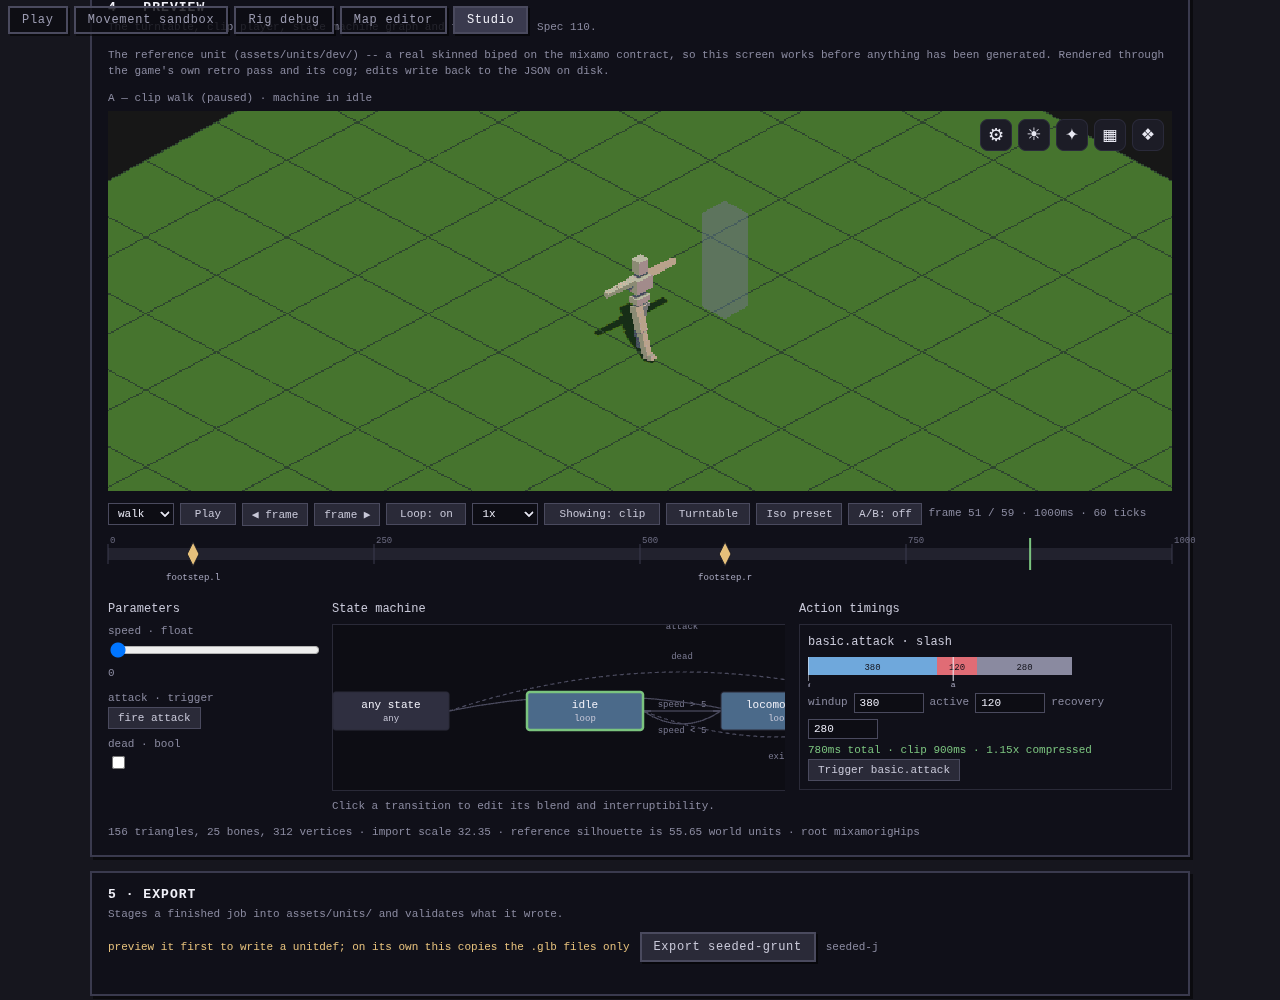
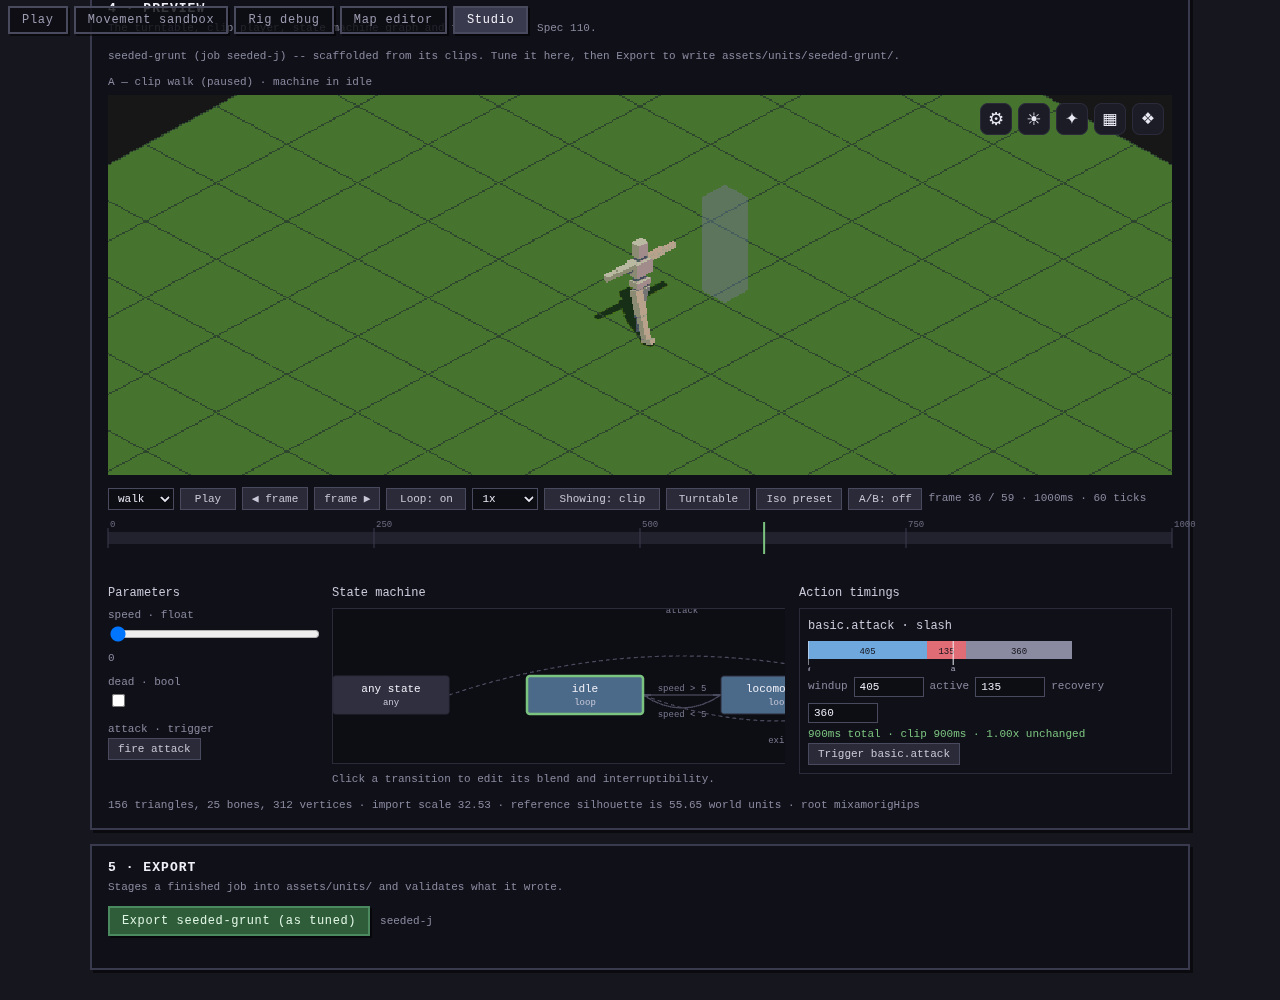
Stop the preview harness from testing a panel it had already torn down
Three faults, found by adding one assertion to this script and watching it fail
for a reason that had nothing to do with what it was asserting.

The seeded job pointed at `clips/attack.glb`, which was renamed to `slash.glb`
when the reference unit's swing was renamed to what the API calls it. So the
job named a file that was not there, `previewJob` threw on the 404, and the
preview never mounted at all -- while every assertion below it went on passing
against the *reference unit*, which this tab already has on screen and which is
the same mannequin the seeded job points at. "156 triangles, 25 bones" was true
of the panel that was about to be replaced, so waiting for it resolved before
the click had done anything. It now waits for the job's own caption first.

Killing `npx` left the `tsx` it spawned holding the port. The next run's
`waitForServer` was then answered by the previous run's server, holding the
previous run's data directory -- so a change to the seeded job did nothing and
the failure read as a code bug with an entirely invented cause. Each child now
leads its own process group and the group is what gets signalled.

And the facing check is clicked here (spec 116), because the measuring is only
half of it: the route has to find the artifacts, the client has to carry the
admin token, and the card has to repaint. The seeded job is the reference
mannequin, which faces +X on purpose, so it has a known right answer -- a probe
[…]

diff --git a/scripts/preview-library.ts b/scripts/preview-library.ts
@@ -99,7 +99,7 @@ function seededJob(): Job {
         idle: devGlb(join('clips', 'idle.glb')),
         walk: devGlb(join('clips', 'walk.glb')),
         run: devGlb(join('clips', 'run.glb')),
-        slash: devGlb(join('clips', 'attack.glb')),
+        slash: devGlb(join('clips', 'slash.glb')),
       },
     },
   };
@@ -129,14 +129,24 @@ async function main(): Promise<void> {
 
   try {
     processes.push(
+      // `detached`, so each child leads its own process group and {@link stop}
+      // can take the whole group down. Killing the `npx` alone leaves the `tsx`
+      // it spawned running and listening -- and then the *next* run's
+      // `waitForServer` is answered by the previous run's server, holding the
+      // previous run's data directory. That reads as a code failure with a
+      // completely invented cause: this script spent a debugging session on a
+      // report that was three clips long because a server from ten minutes
+      // earlier was still answering.
       spawn('npx', ['tsx', 'src/server/index.ts'], {
         cwd: root,
         stdio: 'ignore',
+        detached: true,
         env: { ...process.env, PORT: String(API_PORT), ADMIN_SECRET: SECRET, STUDIO_DATA_DIR: dataDir },
       }),
       spawn('npx', ['vite', '--port', String(WEB_PORT), '--strictPort'], {
         cwd: root,
         stdio: 'ignore',
+        detached: true,
         env: { ...process.env, STUDIO_SERVER: `http://localhost:${API_PORT}` },
       }),
     );
@@ -165,7 +175,56 @@ async function main(): Promise<void> {
       failures.push(`the seeded job is not in the library. Panel said: ${text.slice(0, 400)}`);
     }
 
-    // --- the button this whole spec is about --------------------------------
+    // --- the facing check, end to end (spec 116) ----------------------------
+    //
+    // Clicked here rather than covered in Node because the measuring is only
+    // half of it: the route has to find the artifacts, the client has to carry
+    // the admin token, and the card has to repaint. The seeded job *is* the
+    // reference mannequin, which faces +X on purpose, so this has a known right
+    // answer -- and a probe that cannot clear a unit that is fine is worth less
+    // than no probe, because it would send somebody off to regenerate one.
+    const facingButton = page.getByRole('button', { name: 'Check facing', exact: true });
+    if ((await facingButton.count()) === 0) {
+      failures.push('no Check facing button on the library card');
+    } else {
+      await facingButton.first().click();
+      await page
+        .locator('#app')
+        .filter({ hasText: /mesh .* \(feet\)/ })
+        .first()
+        .waitFor({ timeout: 20_000 })
+        .catch(() => undefined);
+
+      const checked = await page.locator('#app').innerText();
+      if (!/Nothing disagrees/.test(checked)) {
+        const said = /mesh .*\n?.*/.exec(checked)?.[0] ?? checked.slice(-600);
+        failures.push(`the facing check did not clear the reference unit. It said: ${said}`);
+      } else {
+        console.log('  facing: mesh, rig and clips all agree on +X');
+      }
+
+      // Every clip the job names has to appear, including the ones with nothing
+      // to say. A report that quietly covers three of four clips looks complete
+      // and is not -- which is exactly what a stale path in this file did the
+      // first time it ran.
+      for (const intent of ['idle', 'walk', 'run', 'slash']) {
+        if (!checked.includes(`${intent}.glb:`)) {
+          failures.push(`the facing report does not mention ${intent}.glb, so it covered fewer clips than the job has`);
+        }
+      }
+
+      // Photographed on its own, because the report is several lines of small
+      // text on a card and "it rendered" is not the same claim as "it reads".
+      await page.evaluate(() => {
+        const headings = Array.from(document.querySelectorAll('h2'));
+        headings.find((node) => /library/i.test(node.textContent ?? ''))?.scrollIntoView();
+      });
+      await page.waitForTimeout(400);
+      await page.screenshot({ path: join(outDir, 'studio-facing.png') });
+      console.log(`  wrote ${join('.claude', 'screenshots', 'studio-facing.png')}`);
+    }
+
+    // --- the button spec 112 was about --------------------------------------
     const previewButton = page.getByRole('button', { name: 'Preview', exact: true });
     if ((await previewButton.count()) === 0) {
       failures.push('no Preview button on the library card');
@@ -175,6 +234,20 @@ async function main(): Promise<void> {
       // measuring and rebuilding the panels takes as long as the machine takes,
       // and under software GL on a loaded box that is well past any fixed number
       // worth writing down.
+      //
+      // Waited for by the *job's* caption, not by the model stats. The reference
+      // unit this tab opens on is the same mannequin the seeded job points at,
+      // so "156 triangles, 25 bones" is already on screen before the button is
+      // pressed: a wait on that resolves against the panel that is about to be
+      // torn down, and everything after it drives a dead one. That is not
+      // hypothetical -- every assertion below was passing against the reference
+      // panel while the job's preview quietly failed to mount at all.
+      await page
+        .locator('#app')
+        .filter({ hasText: /\(job seeded-j/ })
+        .first()
+        .waitFor({ timeout: 40_000 })
+        .catch(() => undefined);
       await page
         .locator('#app')
         .filter({ hasText: /triangles, \d+ bones/ })
@@ -315,7 +388,17 @@ async function main(): Promise<void> {
 
     await browser.close();
   } finally {
-    for (const child of processes) child.kill();
+    for (const child of processes) {
+      // The group, not the process: `npx` is a shell wrapper around the thing
+      // that actually holds the port. A negative pid is the group, and the
+      // fallback is there because a child that already exited has no group left
+      // to signal and throws rather than reporting it.
+      try {
+        if (child.pid !== undefined) process.kill(-child.pid, 'SIGTERM');
+      } catch {
+        child.kill();
+      }
+    }
     rmSync(dataDir, { recursive: true, force: true });
   }
 
